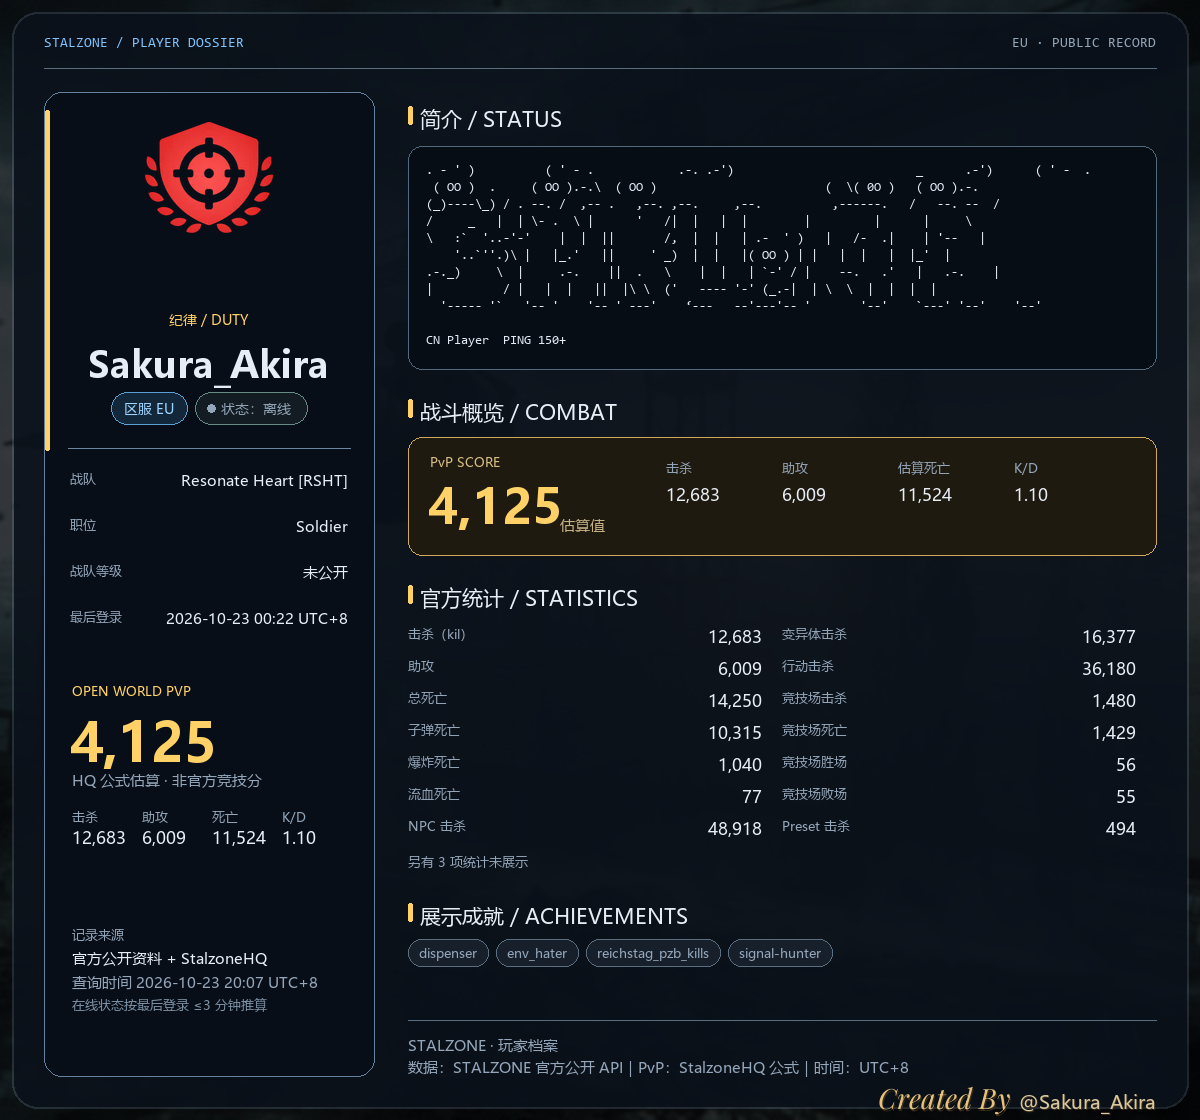
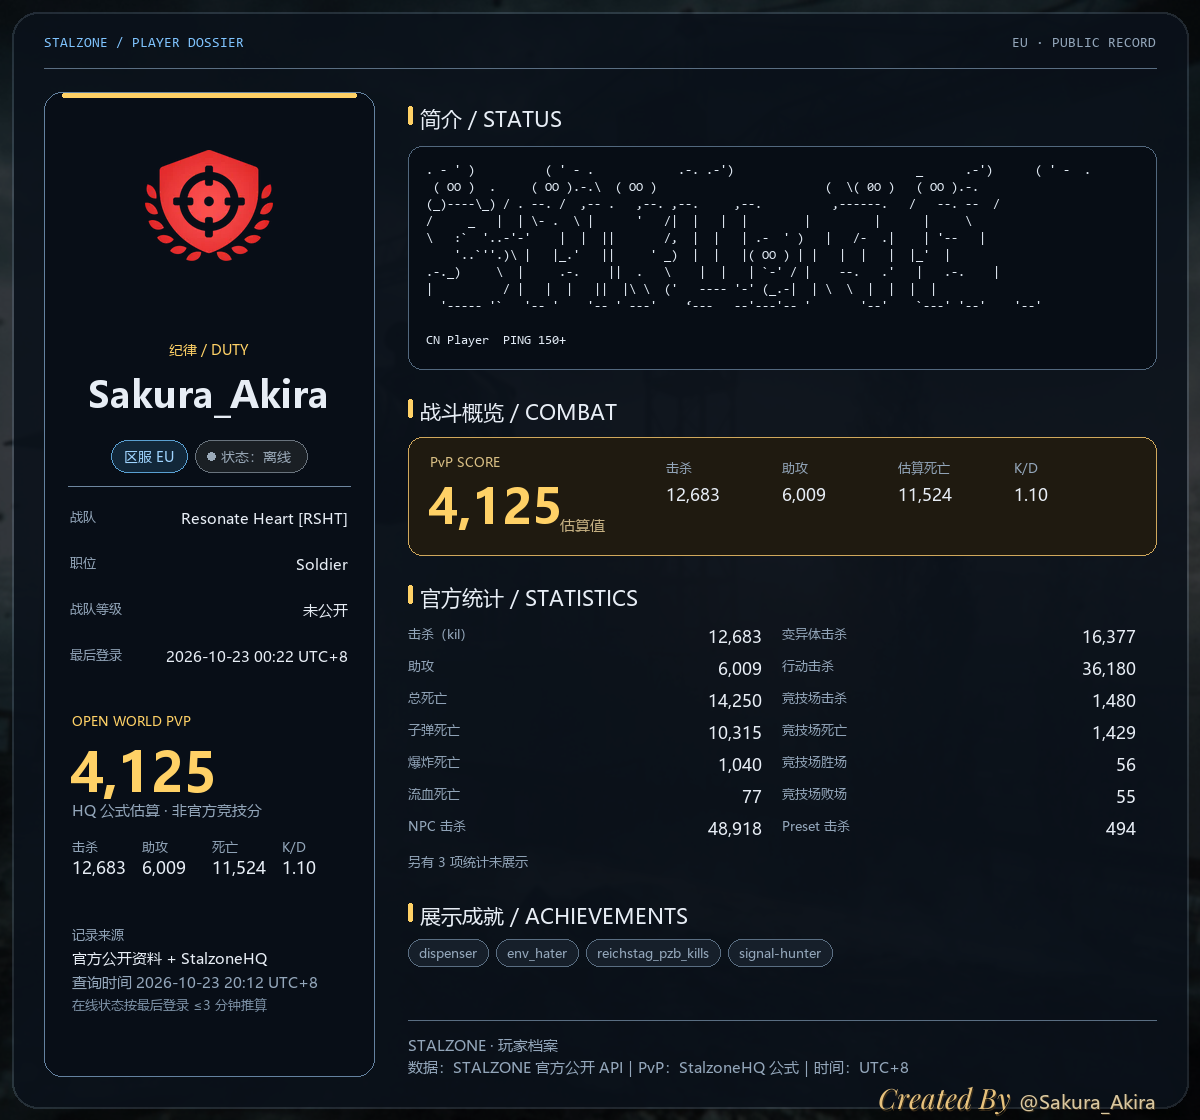
fix: polish dossier identity rail and presence chips

Changed region(s): [[0.0308, 0.0938, 0.3083, 0.5938], [0.0617, 0.5, 0.2775, 0.7812], [0.0617, 0.0625, 0.2775, 0.25]]

diff --git a/image_renderer.py b/image_renderer.py
@@ -1684,8 +1684,8 @@ def render_profile_card(
     )
     draw.line((PAD, divider_y, width - PAD, divider_y), fill=(90, 110, 130, 90), width=1)
 
-    # Left identity rail. The short accent ends with the identity block; it
-    # deliberately does not run through the empty lower part of the rail.
+    # Left identity rail. A gold rule sits along the top edge; there is no
+    # full-height vertical accent running through the empty lower section.
     rail_top = 92
     rail_bottom = height - 44
     draw.rounded_rectangle(
@@ -1694,7 +1694,7 @@ def render_profile_card(
         outline=(100, 130, 160, 85), width=1,
     )
     draw.rounded_rectangle(
-        (left_x + 1, rail_top + 18, left_x + 5, rail_top + 358),
+        (left_x + 18, rail_top + 1, left_x + left_w - 18, rail_top + 5),
         radius=2, fill="#FFD166",
     )
     faction_path = faction_icon_path(str(view.get("alliance_raw") or ""))
@@ -1703,24 +1703,41 @@ def render_profile_card(
             faction = Image.open(faction_path).convert("RGBA")
             faction.thumbnail((176, 176), Image.LANCZOS)
             fx = left_x + (left_w - faction.width) // 2
-            image.alpha_composite(faction, (fx, rail_top + 30))
+            image.alpha_composite(faction, (fx, rail_top + 58))
         except Exception:
             pass
     faction_label = f"{view.get('alliance', '未知')} / {str(view.get('alliance_raw') or '').upper()}"
     draw.text(
-        (left_x + left_w // 2, rail_top + 218),
+        (left_x + left_w // 2, rail_top + 248),
         faction_label,
         font=chip_font, fill="#FFD166", anchor="ma",
     )
+    raw_name = str(view.get("name") or "未知")
+    name_size = 37
+    name_font = title_font
+    while name_size > 22 and name_font.getlength(raw_name) > left_w - 34:
+        name_size -= 1
+        name_font = ImageFont.truetype(str(display_path), name_size)
     draw.text(
-        (left_x + left_w // 2, rail_top + 246),
-        _fit_text(draw, str(view.get("name") or "未知"), title_font, left_w - 34),
-        font=title_font, fill=TEXT, anchor="ma",
+        (left_x + left_w // 2, rail_top + 276),
+        _fit_text(draw, raw_name, name_font, left_w - 34),
+        font=name_font, fill=TEXT, anchor="ma",
     )
 
     state = str(view.get("state") or "未知")
     online = view.get("online")
-    state_color = GREEN if online is True else (MUTED if online is False else "#A9B8C8")
+    if online is True:
+        state_color = "#69F0B0"
+        status_fill = (17, 40, 31, 235)
+        status_border = (75, 190, 135, 165)
+    elif online is False:
+        state_color = "#9AA9B8"
+        status_fill = (26, 31, 36, 235)
+        status_border = (105, 115, 125, 140)
+    else:
+        state_color = "#A9B8C8"
+        status_fill = (26, 31, 36, 235)
+        status_border = (105, 115, 125, 120)
     region_text = f"区服 {str(view.get('region') or '未知').upper()}"
     state_text = f"状态：{state}"
     region_w = int(draw.textlength(region_text, font=chip_font)) + 26
@@ -1728,27 +1745,26 @@ def render_profile_card(
     total_chip_w = region_w + state_w + 8
     chip_x = left_x + (left_w - total_chip_w) // 2
     draw.rounded_rectangle(
-        (chip_x, rail_top + 300, chip_x + region_w, rail_top + 332),
+        (chip_x, rail_top + 348, chip_x + region_w, rail_top + 380),
         radius=16, fill=(18, 39, 57, 235),
         outline=(90, 160, 210, 160), width=1,
     )
-    draw.text((chip_x + 13, rail_top + 307), region_text, font=chip_font, fill="#9FD4FF")
+    draw.text((chip_x + 13, rail_top + 355), region_text, font=chip_font, fill="#9FD4FF")
     status_x = chip_x + region_w + 8
     draw.rounded_rectangle(
-        (status_x, rail_top + 300, status_x + state_w, rail_top + 332),
-        radius=16, fill=(18, 28, 34, 235),
-        outline=(100, 140, 130, 110), width=1,
+        (status_x, rail_top + 348, status_x + state_w, rail_top + 380),
+        radius=16, fill=status_fill, outline=status_border, width=1,
     )
     draw.ellipse(
-        (status_x + 12, rail_top + 312, status_x + 20, rail_top + 320),
+        (status_x + 12, rail_top + 360, status_x + 20, rail_top + 368),
         fill=state_color,
     )
     draw.text(
-        (status_x + 26, rail_top + 307), state_text,
+        (status_x + 26, rail_top + 355), state_text,
         font=chip_font, fill=state_color,
     )
     draw.line(
-        (left_x + 24, rail_top + 356, left_x + left_w - 24, rail_top + 356),
+        (left_x + 24, rail_top + 394, left_x + left_w - 24, rail_top + 394),
         fill=(110, 135, 160, 70), width=1,
     )
 
@@ -1758,7 +1774,7 @@ def render_profile_card(
         ("战队等级", str(view.get("clan_level") if view.get("clan_level") is not None else "未公开")),
         ("最后登录", str(view.get("last_login") or "未知")),
     ]
-    my = rail_top + 378
+    my = rail_top + 416
     for key, value in meta_rows:
         draw.text((left_x + 26, my), key, font=label_font, fill=MUTED)
         fitted = _fit_text(draw, value, small_font, left_w - 100)
@@ -1768,14 +1784,14 @@ def render_profile_card(
         )
         my += 46
 
-    draw.text((left_x + 28, rail_top + 590), "OPEN WORLD PVP", font=label_font, fill="#FFD166")
+    draw.text((left_x + 28, rail_top + 620), "OPEN WORLD PVP", font=label_font, fill="#FFD166")
     if hq:
         draw.text(
-            (left_x + 26, rail_top + 612), f"{hq.get('score', 0):,}",
+            (left_x + 26, rail_top + 642), f"{hq.get('score', 0):,}",
             font=score_font, fill="#FFD166",
         )
-        draw.text((left_x + 28, rail_top + 678), "HQ 公式估算 · 非官方竞技分", font=small_font, fill=MUTED)
-        metric_y = rail_top + 716
+        draw.text((left_x + 28, rail_top + 708), "HQ 公式估算 · 非官方竞技分", font=small_font, fill=MUTED)
+        metric_y = rail_top + 746
         metric_values = [
             ("击杀", f"{hq.get('kills', 0):,}"),
             ("助攻", f"{hq.get('assists', 0):,}"),
@@ -1787,7 +1803,7 @@ def render_profile_card(
             draw.text((mx, metric_y), key, font=label_font, fill=MUTED)
             draw.text((mx, metric_y + 18), value, font=metric_font, fill=TEXT)
     else:
-        draw.text((left_x + 28, rail_top + 620), "暂无 PvP 统计", font=body_font, fill=MUTED)
+        draw.text((left_x + 28, rail_top + 650), "暂无 PvP 统计", font=body_font, fill=MUTED)
 
     source_y = max(rail_top + 820, rail_bottom - 150)
     draw.text((left_x + 28, source_y), "记录来源", font=label_font, fill=MUTED)

diff --git a/tests/test_plugin.py b/tests/test_plugin.py
@@ -785,6 +785,22 @@ class FormatterTests(unittest.TestCase):
         self.assertEqual(explicit["state"], "在线")
         self.assertFalse(explicit["online_inferred"])
 
+    def test_profile_long_name_renders_without_overflow(self):
+        payload = {
+            "username": "Extremely_Long_Player_Name_That_Must_Not_Overflow",
+            "status": "online",
+            "alliance": "duty",
+            "lastLogin": "2026-10-22T05:59:00Z",
+            "stats": [],
+        }
+        view = build_profile_view(payload, "eu", now=self.NOW)
+        if not find_cjk_font():
+            self.skipTest("CJK font unavailable")
+        path = render_profile_card(view)
+        self.assertIsNotNone(path)
+        self.assertTrue(path.exists())
+        path.unlink(missing_ok=True)
+
     def test_profile_hq_section(self):
         payload = {
             "username": "Sakura_Akira",

diff --git a/main.py b/main.py
@@ -162,7 +162,7 @@ UUID_RE = re.compile(
     r"^[0-9a-fA-F]{8}-[0-9a-fA-F]{4}-[0-9a-fA-F]{4}-[0-9a-fA-F]{4}-[0-9a-fA-F]{12}$"
 )
 ITEM_ID_RE = re.compile(r"^[A-Za-z0-9_-]{1,128}$")
-PLUGIN_VERSION = "1.0.4"
+PLUGIN_VERSION = "1.0.5"
 SZ_BARE_RE = r"(?i)^\s*(?:sz|stalzone)(?:@\S+)?\s+"
 def _looks_like_image(data: bytes) -> bool:
     head = data[:16]

diff --git a/CHANGELOG.md b/CHANGELOG.md
@@ -3,6 +3,19 @@
 All notable changes to this project are documented here.
 The project follows [Semantic Versioning](https://semver.org/).
 
+## 1.0.5 - 2026-10-23
+
+### Fixed
+
+- Moved the faction emblem down inside the identity rail and replaced the full-height left gold stripe with a gold rule along the top edge of the rail.
+- Increased the gap between the player name and the region/presence chips.
+- Presence chips now switch between a green treatment for online and a gray treatment for offline; unknown remains neutral.
+- Long player names automatically shrink down to 22px and only then ellipsize, preventing overflow outside the identity rail.
+
+### Tests
+
+- Added a long-name render regression and presence color/layout coverage; 148 tests pass.
+
 ## 1.0.4 - 2026-10-23
 
 ### Added

diff --git a/README.en.md b/README.en.md
@@ -7,7 +7,7 @@
 Auction · Emissions · Players · Clans · Items · Candidates · Season Pass
 
 ![AstrBot](https://img.shields.io/badge/AstrBot-plugin-5865F2?style=flat-square)
-![Version](https://img.shields.io/badge/version-1.0.4-22c55e?style=flat-square)
+![Version](https://img.shields.io/badge/version-1.0.5-22c55e?style=flat-square)
 ![Python](https://img.shields.io/badge/Python-3.10%2B-3776AB?style=flat-square)
 ![Platform](https://img.shields.io/badge/platform-QQ%20%2F%20OneBot-F97316?style=flat-square)
 ![API](https://img.shields.io/badge/data-Official%20STALZONE%20API-0EA5E9?style=flat-square)

diff --git a/README.md b/README.md
@@ -7,7 +7,7 @@
 拍卖 · 风暴 · 玩家 · 战队 · 物品 · 候选卡 · 通行证计算
 
 ![AstrBot](https://img.shields.io/badge/AstrBot-plugin-5865F2?style=flat-square)
-![Version](https://img.shields.io/badge/version-1.0.4-22c55e?style=flat-square)
+![Version](https://img.shields.io/badge/version-1.0.5-22c55e?style=flat-square)
 ![Python](https://img.shields.io/badge/Python-3.10%2B-3776AB?style=flat-square)
 ![Platform](https://img.shields.io/badge/platform-QQ%20%2F%20OneBot-F97316?style=flat-square)
 ![API](https://img.shields.io/badge/data-Official%20STALZONE%20API-0EA5E9?style=flat-square)
